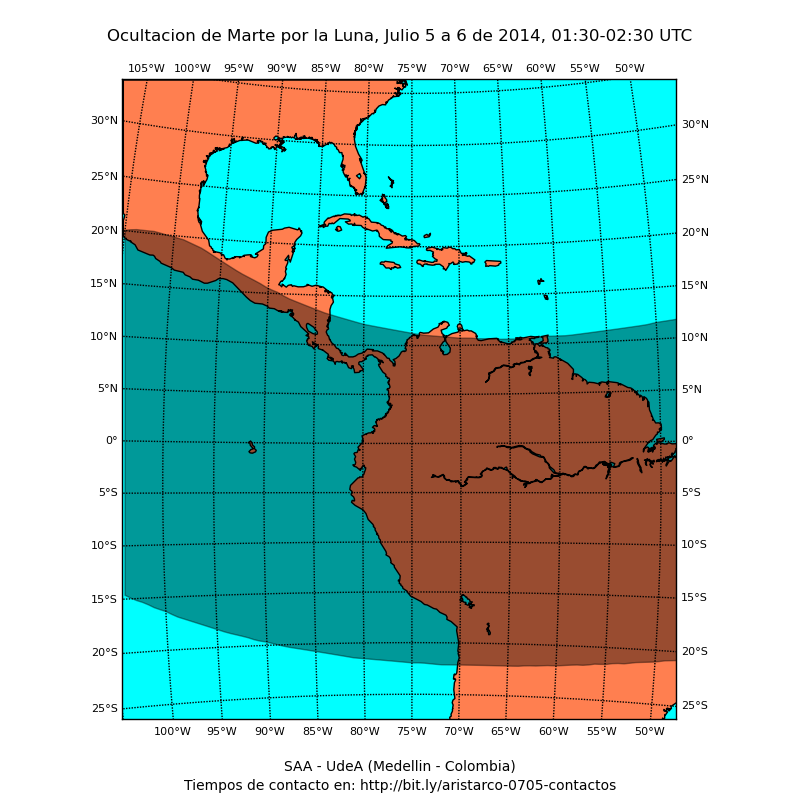
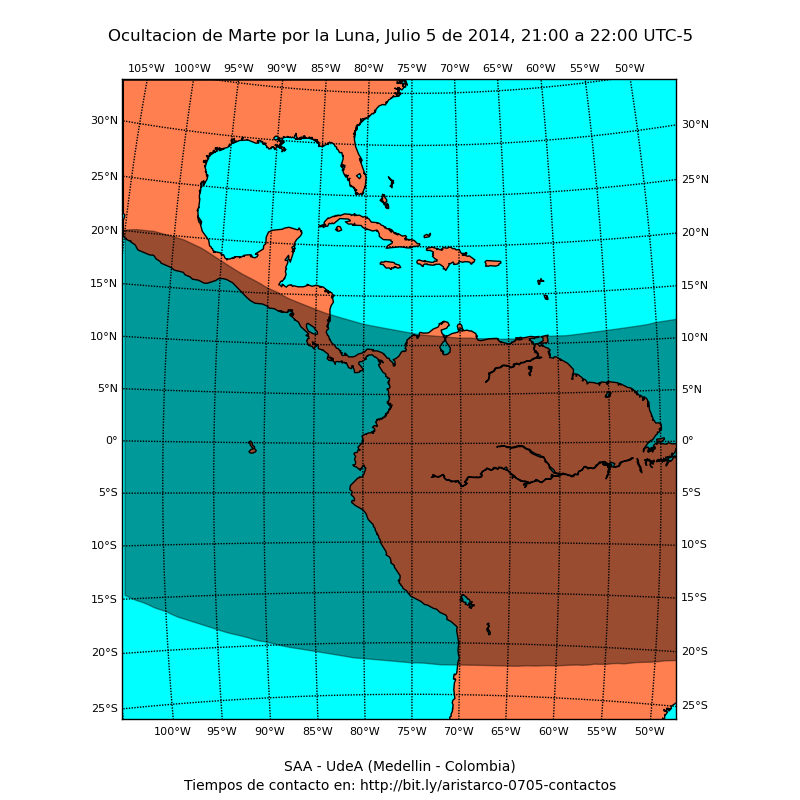
Update

Changed region(s): [[0.125, 0.0312, 0.875, 0.0625]]

diff --git a/total.py b/total.py
@@ -57,7 +57,7 @@ xmax=min(data[:,3].max(),data[:,5].max())
 xs=linspace(xmin,xmax,100)
 fill_between(xs,bs(xs),bn(xs),color='k',alpha=0.4,zorder=+10)
 
-title(r"Ocultacion de Marte por la Luna, Julio 5 a 6 de 2014, 01:30-02:30 UTC",
+title(r"Ocultacion de Marte por la Luna, Julio 5 de 2014, 21:00 a 22:00 UTC-5",
       position=(0.5,1.05),fontsize=12)
 text(0.5,-0.08,r"SAA - UdeA (Medellin - Colombia)",transform=ax.transAxes,
      horizontalalignment='center',fontsize=10)
